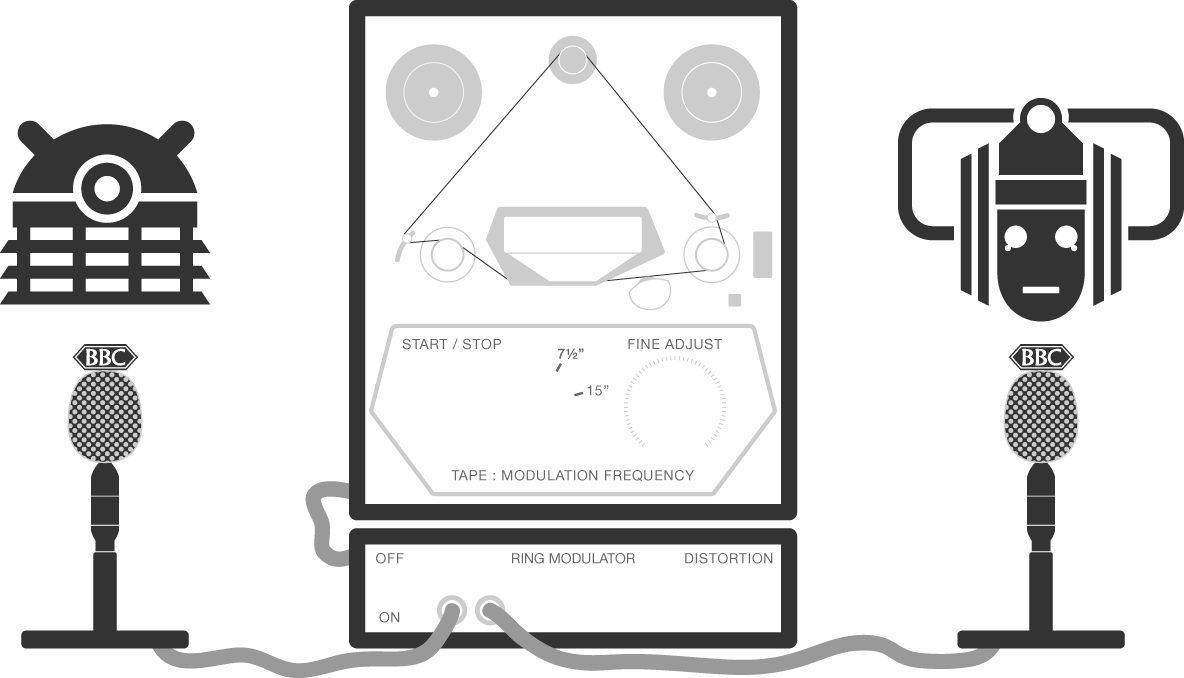
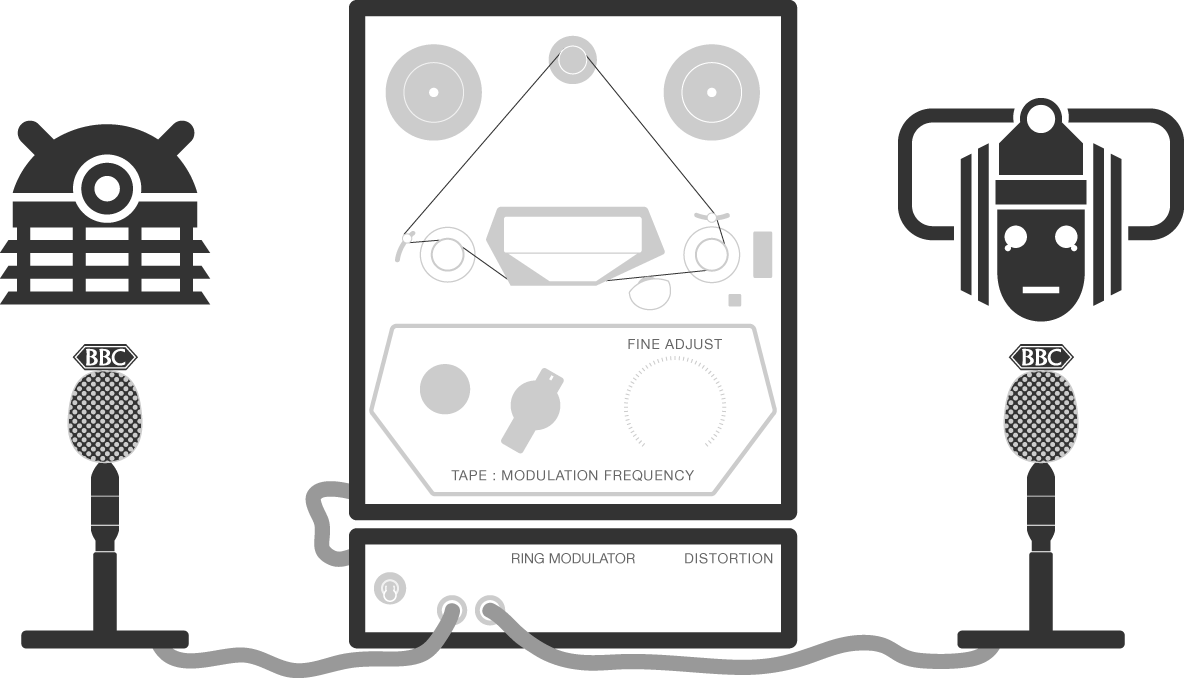
Remove unused 'Ring modulator' UI controls

Changed region(s): [[0.3438, 0.4956, 0.5, 0.6814], [0.3125, 0.8053, 0.3438, 0.9292], [0.4688, 0.4956, 0.5, 0.5265]]

diff --git a/css/ring-modulator.css b/css/ring-modulator.css
@@ -46,6 +46,9 @@
     position: absolute;
 }
 
+/*
+Unused
+
 #tape-switch {
     width: 50px;
     height: 50px;
@@ -61,6 +64,12 @@
 #tape-switch.on {
     background: url("/img/tape/rw_demo_tape_stop.png") no-repeat scroll 0 0 transparent;
 }
+
+*/
+
+
+/*
+    UNUSED:
 
 #mod-switch {
     background: url("/img/ring/rw_demo_ring_on-off.png") no-repeat scroll 0 0 transparent;
@@ -78,6 +87,8 @@
 #mod-switch.on {
 
 }
+
+*/
 
 .voice {
     width: 184px;
